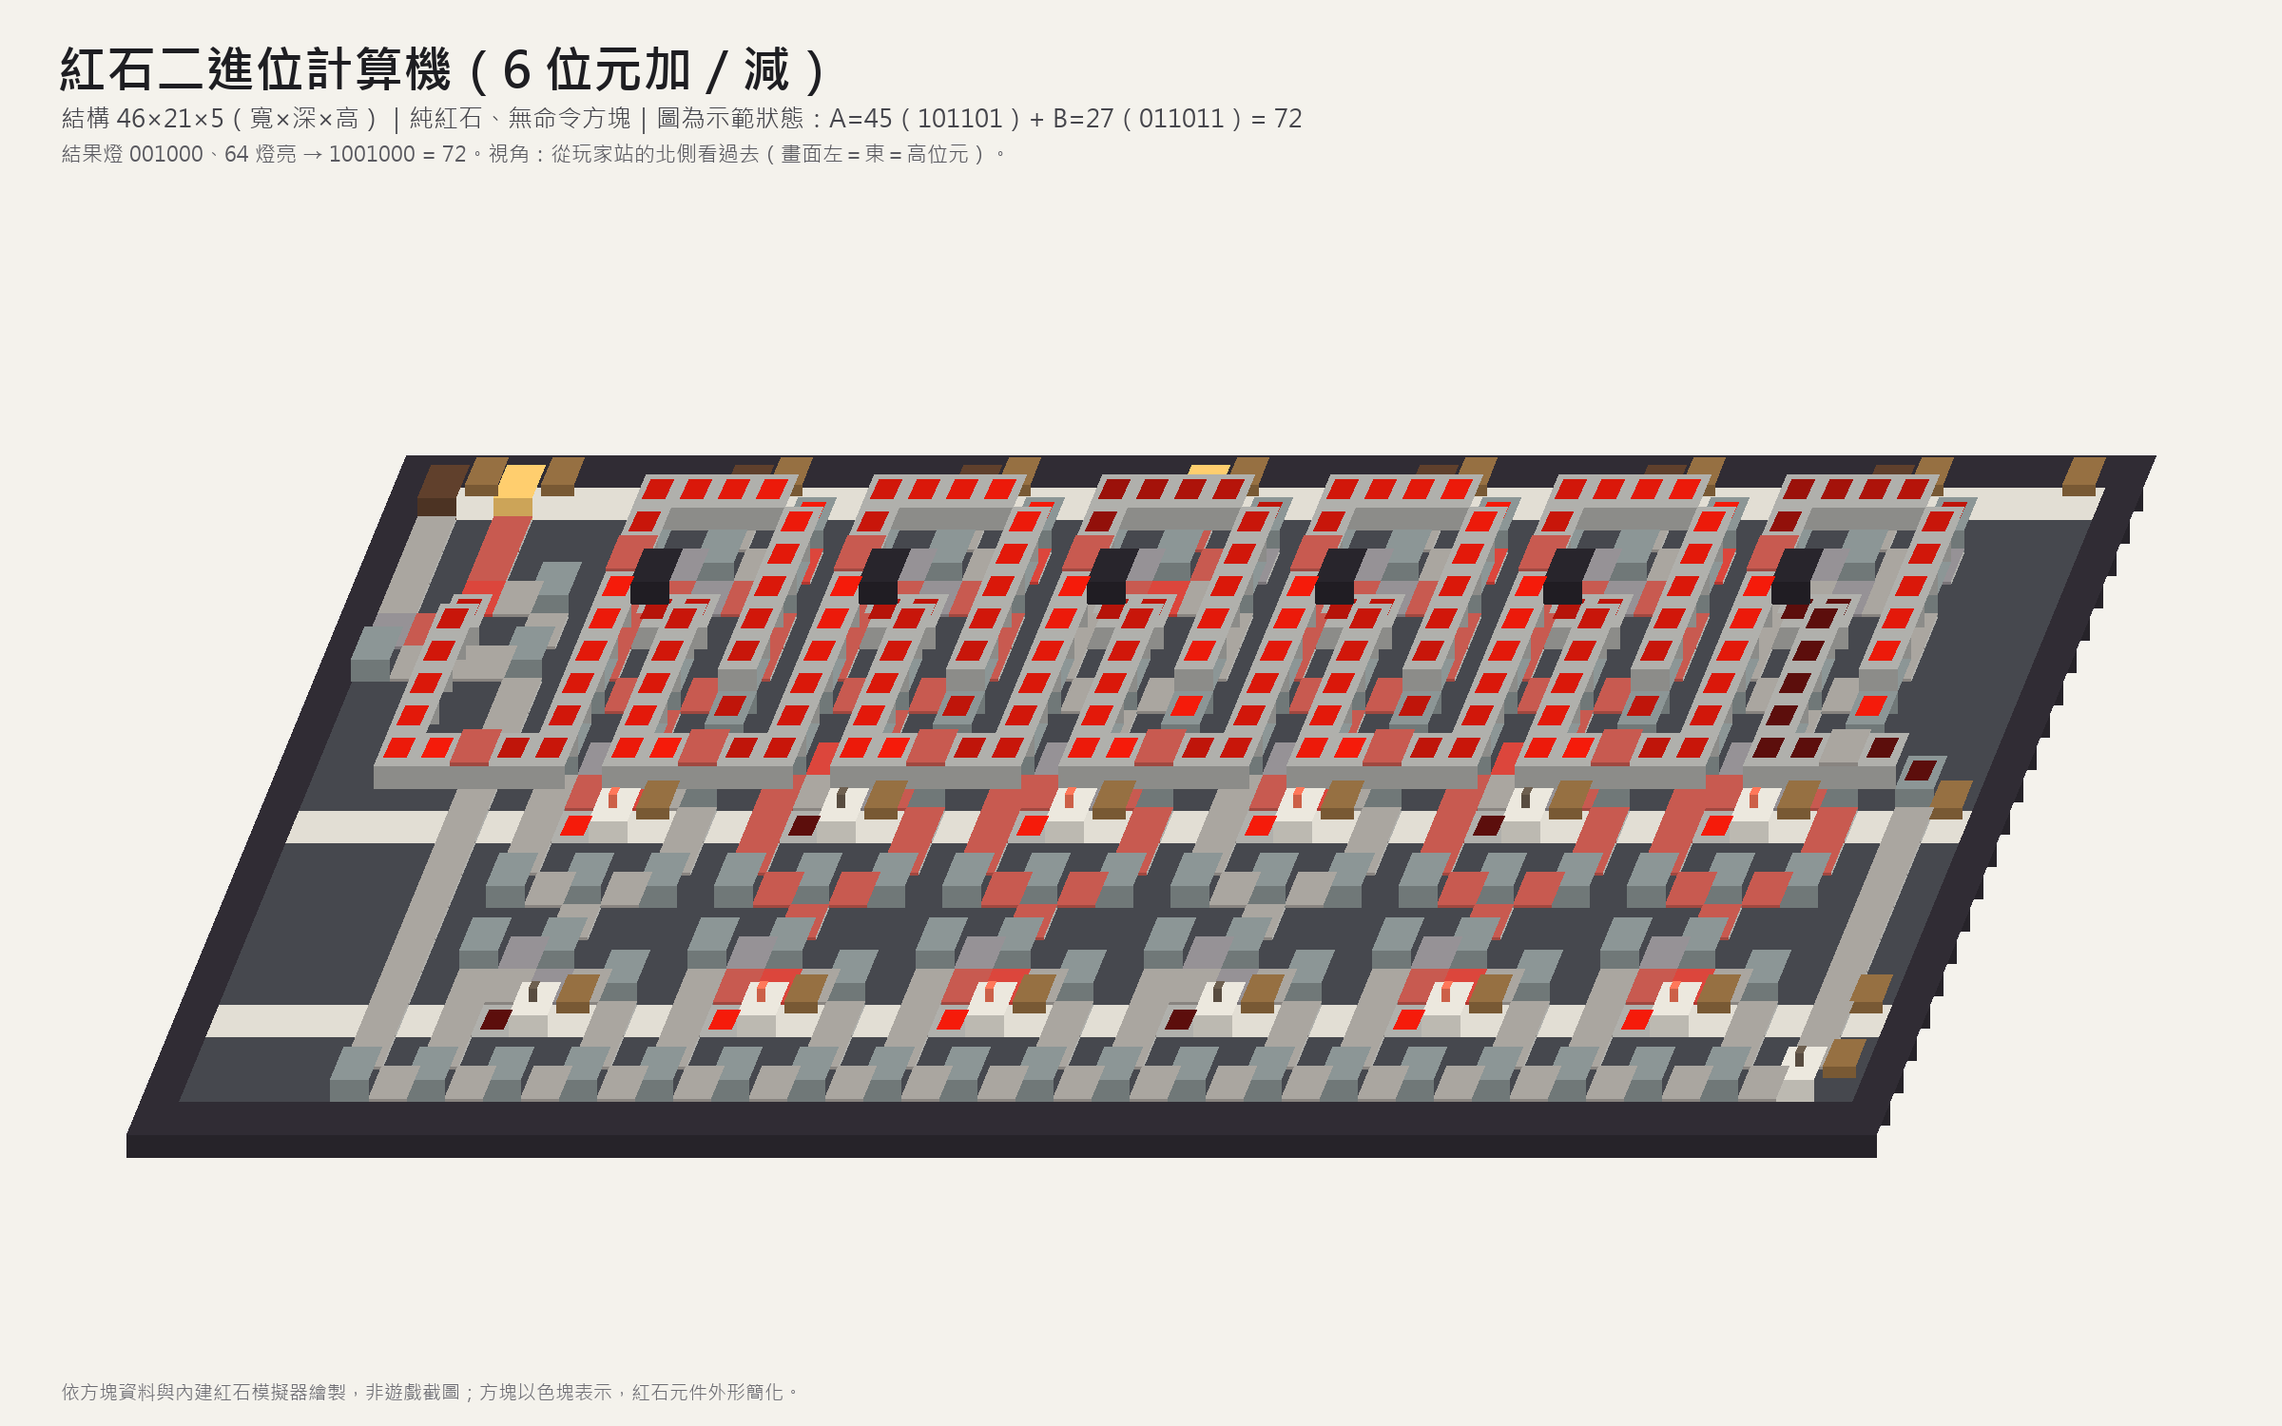
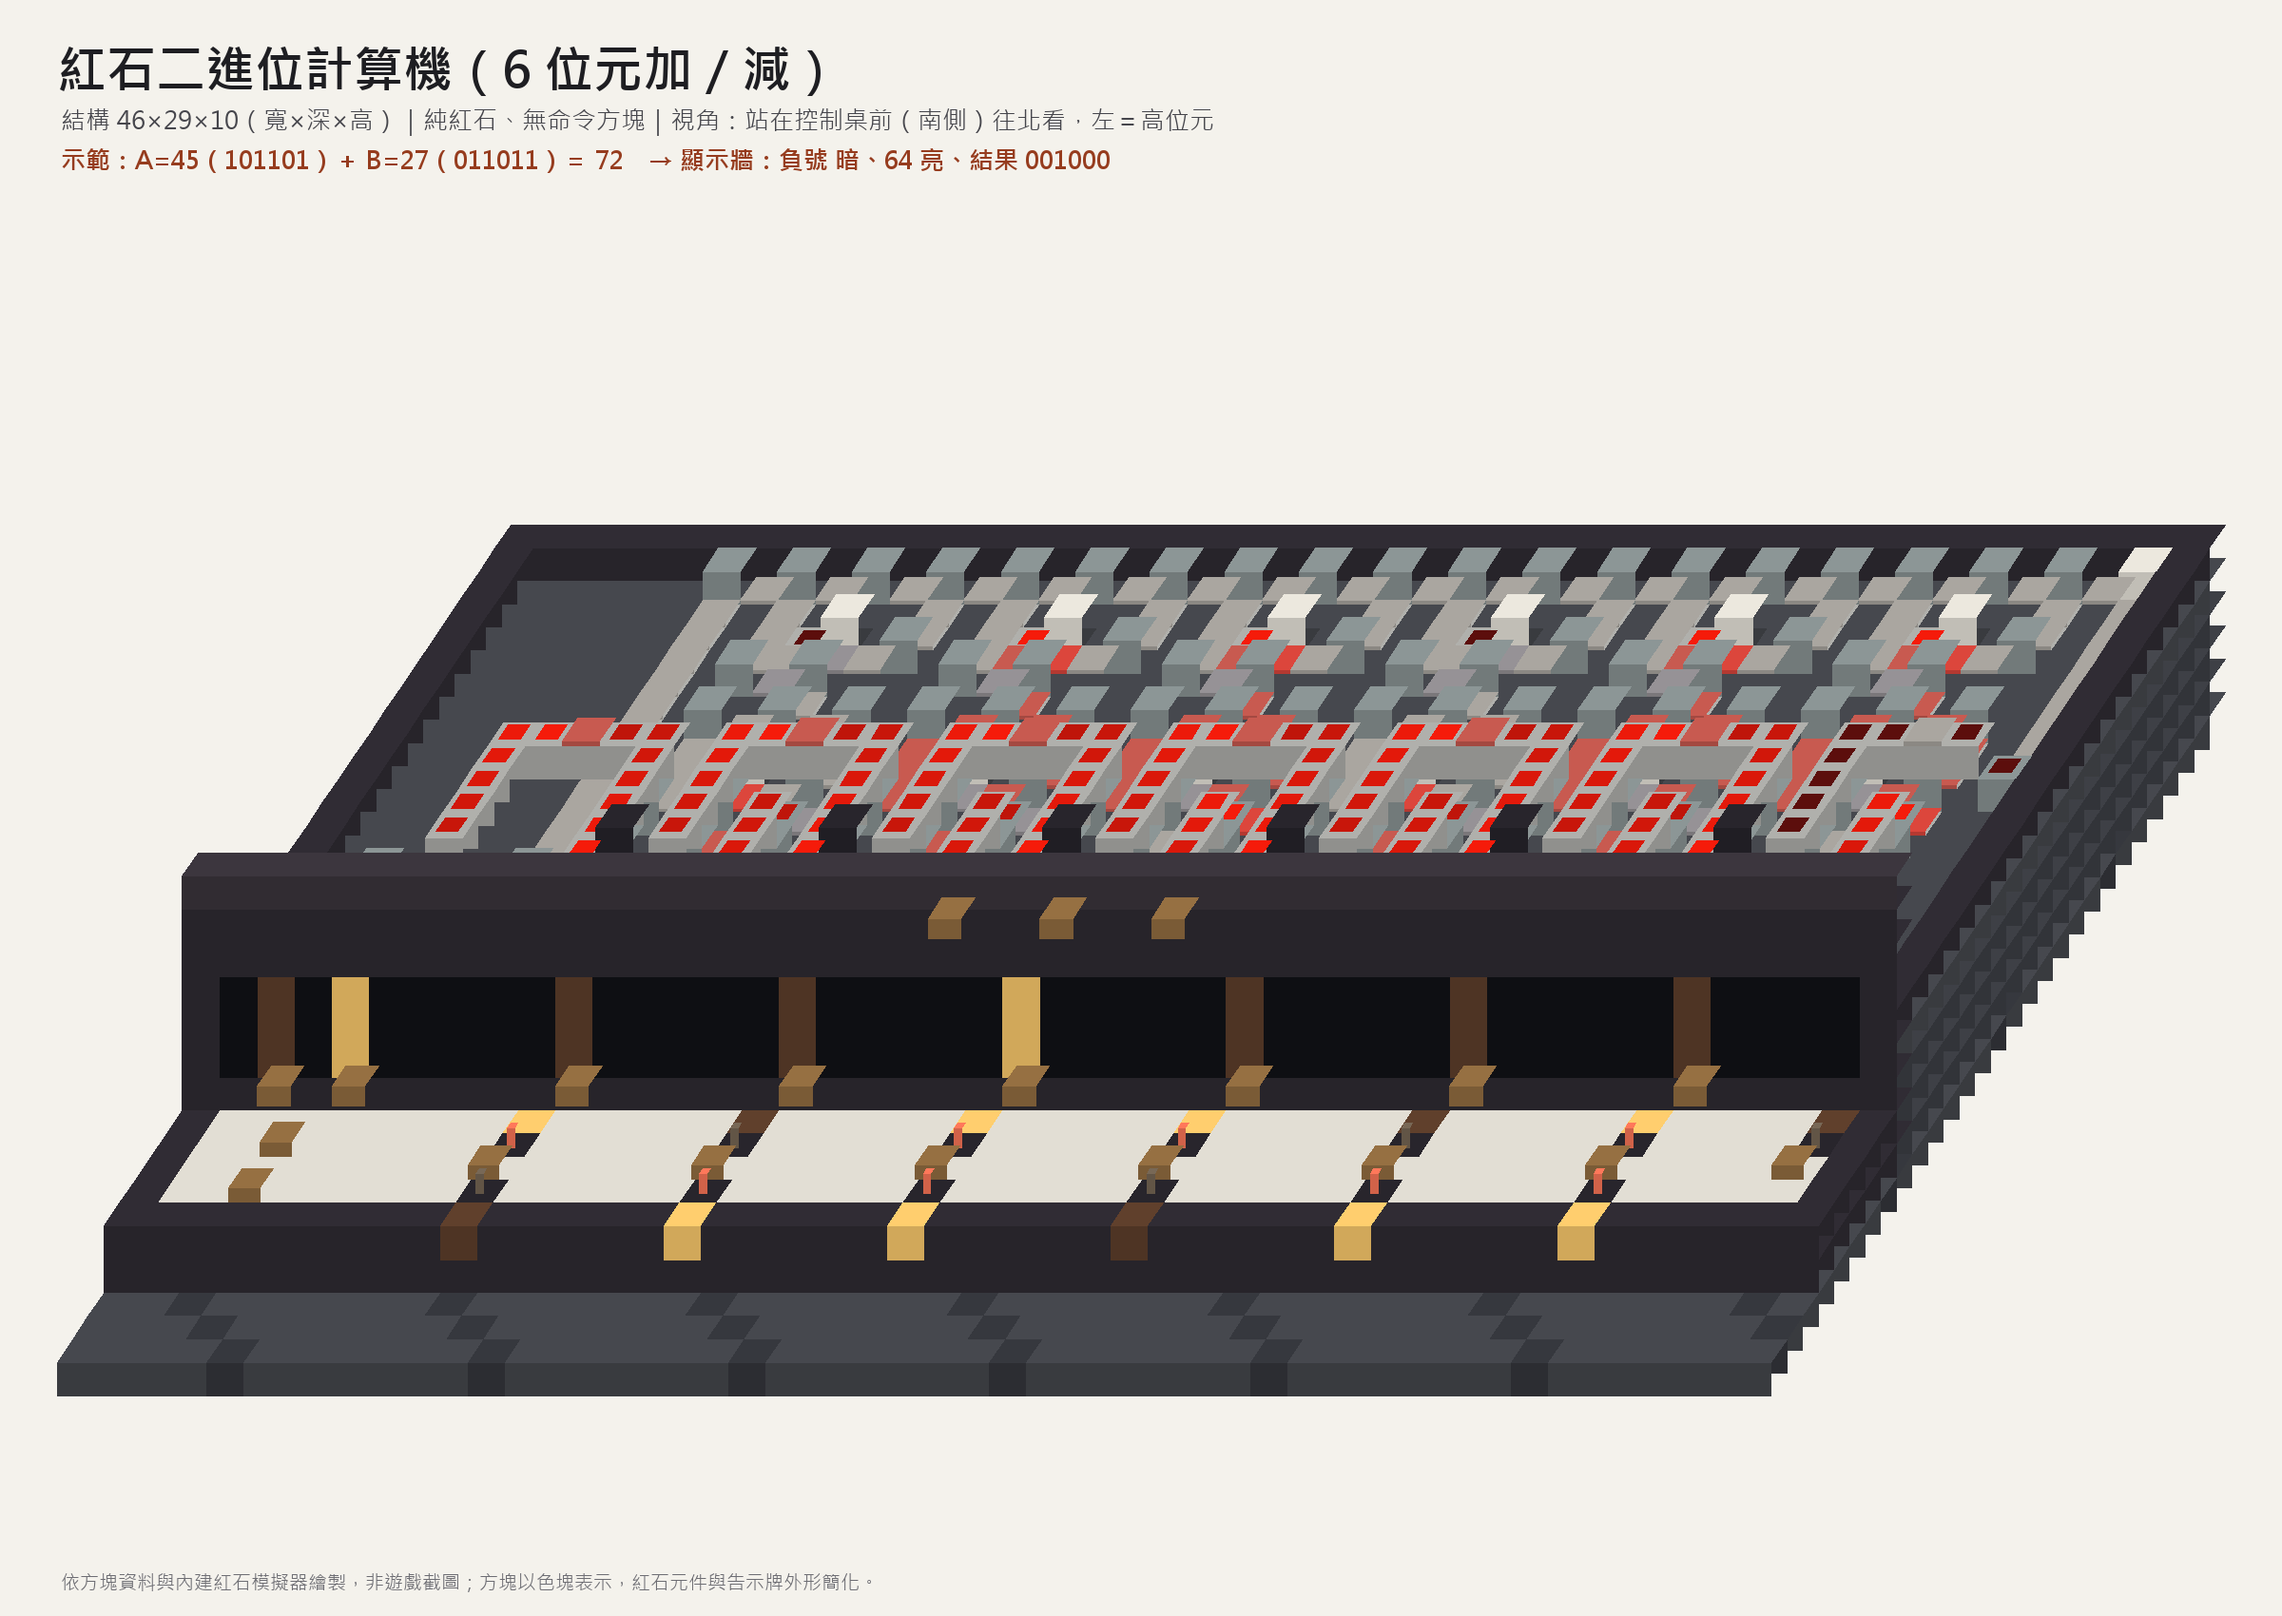
紅石二進位計算機 2.0.0：修正顯示左右顛倒（整台鏡像、操作位置固定在南側）；新增控制桌（拉桿＋指示燈＋位值牌）與顯示牆（3 格高燈條），拉桿經火把塔送入電路；模擬 1511 組全對

diff --git a/docs/紅石犯錯紀錄.md b/docs/紅石犯錯紀錄.md
@@ -87,3 +87,12 @@
 - 比較器後端直接讀樞紐方塊；側面一律由「背對樞紐的中繼器」餵入，確保是 15 或 0，減法不會出現殘值。
 - OR ＝兩個比較器打進同一個方塊。分支＝樞紐四周接多個背對它的中繼器。
 - 樞紐之間相鄰不會互傳（方塊不傳方塊），但樞紐旁邊不能放不相干的紅石粉（強充能方塊會供電給相鄰紅石粉）。
+
+### 10. 顯示又左右顛倒（紅石二進位計算機 v1 → v2，使用者回報）
+- **錯誤**：v1 是照「玩家站北側面向南」擺高低位（高位在東），邏輯上沒錯；但燈排放在電路板**最南端**，
+  使用者自然會走到燈旁邊、從南邊看 → 看到的順序整個反過來。我只「規定」了觀看位置，卻沒有用配置「強制」它。
+- **規則**：
+  - 輸入和輸出要放在**同一個操作位置**（控制桌＋顯示牆），並用牆、桌子擋住其他方向，讓玩家只可能從一邊看。
+  - 燈和拉桿要放在最靠近那個操作位置的一端；不要把顯示放在電路另一頭。
+  - 模擬器測試要依「操作位置」輸出左右順序的文字圖（例：`NEG:. C64:# 32:. … 1:.`），拉桿順序也要一起印出來核對。
+  - 需要換方向時，整台做 X 鏡像（中繼器／比較器 E↔W）最省事，再重跑全部測試。
